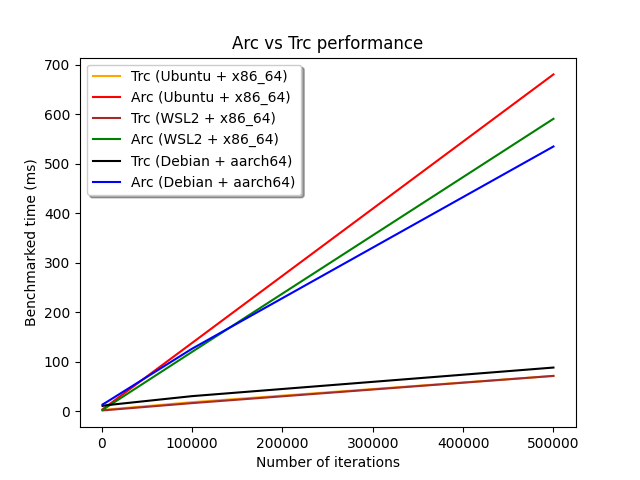
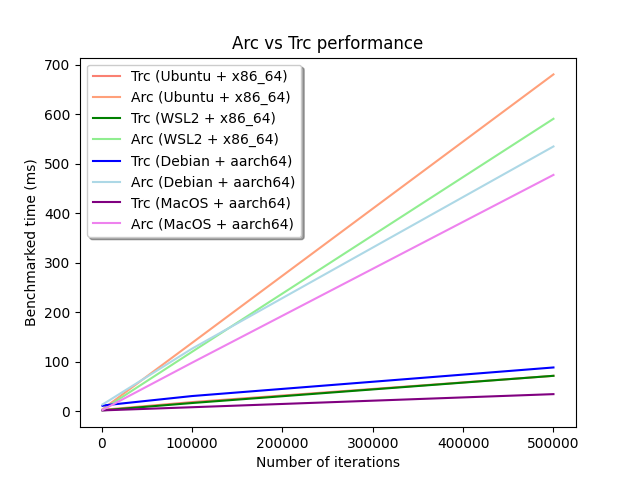
Add M1 benchmarks

diff --git a/figures/perfplot.py b/figures/perfplot.py
@@ -27,20 +27,28 @@ plt.legend(("Trc","Arc"), shadow=True, fancybox=True)
 plt.savefig("debian_aarch64.png")
 plt.clf()
 
+plt.plot([1000, 5000, 100000, 500000], [1.6875, 1.9675, 8.0951, 34.526], color = "red", label = "Trc")
+plt.plot([1000, 5000, 100000, 500000], [2.6682, 6.4880, 97.976, 477.23], color = "blue", label = "Arc")
+plt.ylabel("Benchmarked time (ms)")
+plt.xlabel("Number of iterations")
+plt.title("Arc vs Trc performance (M1 Apple Darwin + aarch64)")
+plt.legend(shadow=True, fancybox=True)
+plt.savefig("apple_darwin_aarch64.png")
+plt.clf()
 
 
-plt.plot([1000, 5000, 100000, 500000], [2.8, 3.48, 18.451, 71.49], color = "orange")
-plt.plot([1000, 5000, 100000, 500000], [4.02, 9.415, 137.980, 680.18], color = "r")
-plt.plot([1000, 5000, 100000, 500000], [1.883, 2.424, 16.585, 71.543], color = "brown")
-plt.plot([1000, 5000, 100000, 500000], [2.913, 7.672, 119.950, 590.530], color = "g")
-plt.plot([1000, 5000, 100000, 500000], [10.945, 12.3, 30.666, 88.387], color = "black")
-plt.plot([1000, 5000, 100000, 500000], [13.854, 18.104, 126.330, 534.67], color = "b")
+plt.plot([1000, 5000, 100000, 500000], [2.8, 3.48, 18.451, 71.49], color = "salmon", label = "Trc (Ubuntu + x86_64)")
+plt.plot([1000, 5000, 100000, 500000], [4.02, 9.415, 137.980, 680.18], color = "lightsalmon", label = "Arc (Ubuntu + x86_64)")
+plt.plot([1000, 5000, 100000, 500000], [1.883, 2.424, 16.585, 71.543], color = "green", label = "Trc (WSL2 + x86_64)")
+plt.plot([1000, 5000, 100000, 500000], [2.913, 7.672, 119.950, 590.530], color = "lightgreen", label = "Arc (WSL2 + x86_64)")
+plt.plot([1000, 5000, 100000, 500000], [10.945, 12.3, 30.666, 88.387], color = "blue", label = "Trc (Debian + aarch64)")
+plt.plot([1000, 5000, 100000, 500000], [13.854, 18.104, 126.330, 534.67], color = "lightblue", label = "Arc (Debian + aarch64)")
+plt.plot([1000, 5000, 100000, 500000], [1.6875, 1.9675, 8.0951, 34.526], color = "purple", label = "Trc (MacOS + aarch64)")
+plt.plot([1000, 5000, 100000, 500000], [2.6682, 6.4880, 97.976, 477.23], color = "violet", label = "Arc (MacOS + aarch64)")
 
 plt.ylabel("Benchmarked time (ms)")
 plt.xlabel("Number of iterations")
 plt.title("Arc vs Trc performance")
-plt.legend(("Trc (Ubuntu + x86_64)","Arc (Ubuntu + x86_64)",
-            "Trc (WSL2 + x86_64)","Arc (WSL2 + x86_64)",
-            "Trc (Debian + aarch64)","Arc (Debian + aarch64)"), shadow=True, fancybox=True)
+plt.legend(shadow=True, fancybox=True)
 plt.savefig("performance.png")
 plt.clf()

diff --git a/BENCHMARKS.md b/BENCHMARKS.md
@@ -232,3 +232,81 @@ MIRIFLAGS="-Zmiri-tree-borrows" cargo +nightly miri test
 | Arc | 590.530ms |
 
 ![Trc vs Arc performance (Debian aarch64)](./figures/debian_aarch64.png)
+
+
+## MacOS 13.4.1 + Apple M1 Max (aarch64)
+
+```shell
+curl --proto '=https' --tlsv1.2 -sSf https://sh.rustup.rs | sh
+source "$HOME/.cargo/env"
+git clone https://github.com/EricLBuehler/trc.git
+cd trc
+sudo apt install git
+sudo apt install build-essential
+# Benchmarks
+cargo install cargo-criterion
+cargo criterion
+# Tests
+rustup +nightly component add miri
+cargo +nightly miri test
+MIRIFLAGS="-Zmiri-strict-provenance" cargo +nightly miri test
+MIRIFLAGS="-Zmiri-symbolic-alignment-check" cargo +nightly miri test
+MIRIFLAGS="-Zmiri-tree-borrows" cargo +nightly miri test
+```
+
+<span style="color:green">**All tests passed.**</span>
+
+
+### Clone
+| Type | Mean time |
+| --- | ----------- |
+| Trc | 29.750ns |
+| Arc | 20.221ns |
+| Rc | 16.191ns |
+
+### Multiple Clone (100 times)
+| Type | Mean time |
+| --- | ----------- |
+| Trc | 440.81ns |
+| Arc | 969.18ns |
+| Rc | 409.55ns |
+
+### Deref
+| Type | Mean time |
+| --- | ----------- |
+| Trc | 16.279ns |
+| Arc | 16.620ns |
+| Rc | 15.590ns |
+
+### Multiple Deref (100 times)
+| Type | Mean time |
+| --- | ----------- |
+| Trc | 49.710ns |
+| Arc | 49.918ns |
+| Rc | 46.284ns |
+
+### Multiple Threads Drop and Clone (1000 times)
+| Type | Mean time |
+| --- |-----------|
+| Trc | 1.688ms   |
+| Arc | 2.668ms   |
+
+### Multiple Threads Drop and Clone (5000 times)
+| Type | Mean time |
+| --- |-----------|
+| Trc | 1.968ms   |
+| Arc | 6.488ms   |
+
+### Multiple Threads Drop and Clone (100000 times)
+| Type | Mean time |
+| --- | ---------- |
+| Trc | 8.095ms |
+| Arc | 97.976ms |
+
+### Multiple Threads Drop and Clone (500000 times)
+| Type | Mean time |
+| --- |----------|
+| Trc | 34.526ms |
+| Arc | 477.230ms |
+
+![Trc vs Arc performance (Debian aarch64)](./figures/debian_aarch64.png)
